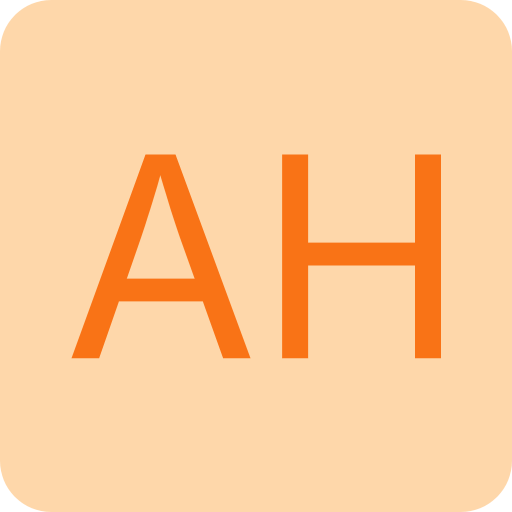
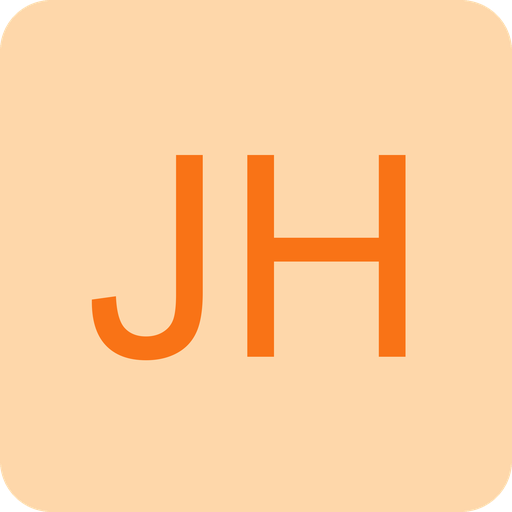
feat: rebrand Alex -> Jay and prep for jayhoward.dev
- Replace "Alex" with "Jay" in site copy, page titles, alt text, blog
  author line, and testimonial forms; navbar initials A.H -> J.H
- Regenerate favicons and app icons with JH initials (same style)
- Update job title to Lead Software Engineer on Home and About
- Contact email -> me@jayhoward.dev; fill in site.webmanifest name
- Backend CORS_ORIGIN now accepts a comma-separated allowlist so both
  jayhoward.dev and alexhoward.dev work during the domain transition
- Remove frontend/public/CNAME (GitHub Pages leftover; site is served
  by Cloudflare Pages)

Changed region(s): [[0.125, 0.2812, 0.875, 0.7188]]

diff --git a/frontend/src/components/about/TestimonialSubmitPage.tsx b/frontend/src/components/about/TestimonialSubmitPage.tsx
@@ -115,11 +115,11 @@ export const TestimonialSubmitPage = () => {
 						Hi!
 					</h2>
 					<p className="lead mb-4" style={{ fontSize: "1.2rem" }}>
-						Alex likes you enough that he wants to hear your thoughts about working with him. Please fill out the form to leave
+						Jay likes you enough that he wants to hear your thoughts about working with him. Please fill out the form to leave
 						your testimonial.
 					</p>
 					<ul className="list-unstyled text-muted small" style={{ fontSize: "1rem" }}>
-						<li>• Your testimonial may be featured on Alex&apos;s site.</li>
+						<li>• Your testimonial may be featured on Jay&apos;s site.</li>
 						<li>• Only your name, title, and company will be shown publicly.</li>
 						<li>• Thank you for your time!</li>
 					</ul>
@@ -151,7 +151,7 @@ export const TestimonialSubmitPage = () => {
 								<input type="text" className="form-control" name="company" value={form.company} onInput={handleChange} />
 							</div>
 							<div className="mb-3">
-								<label className="form-label">How do you know Alex? *</label>
+								<label className="form-label">How do you know Jay? *</label>
 								<input
 									type="text"
 									className="form-control"

diff --git a/backend/src/middleware/auth.ts b/backend/src/middleware/auth.ts
@@ -62,9 +62,15 @@ export const requireAuth = async (request: Request) => {
 // CORS headers helper
 export const getCorsHeaders = (env: Env, request?: Request) => {
 	const origin = request?.headers.get('Origin');
-	const allowedOrigin = origin && (origin.includes('localhost') || origin.includes('127.0.0.1'))
+	// CORS_ORIGIN may be a comma-separated list of allowed origins
+	const allowedOrigins = (env.CORS_ORIGIN || 'http://localhost:5173')
+		.split(',')
+		.map((o) => o.trim())
+		.filter(Boolean);
+	const isLocal = origin && (origin.includes('localhost') || origin.includes('127.0.0.1'));
+	const allowedOrigin = origin && (isLocal || allowedOrigins.includes(origin))
 		? origin
-		: (env.CORS_ORIGIN || 'http://localhost:5173');
+		: allowedOrigins[0];
 
 	return {
 		'Content-Type': 'application/json',

diff --git a/frontend/src/components/Home.tsx b/frontend/src/components/Home.tsx
@@ -8,8 +8,8 @@ export const Home = () => {
 				<div className="row justify-content-center">
 					<div className="col-lg-8">
 						<Hero />
-						<h1 className="display-2 fw-bold mb-3">Hey, I&apos;m Alex.</h1>
-						<p className="display-5 lead text-primary mb-4">Full Stack Software Engineer II</p>
+						<h1 className="display-2 fw-bold mb-3">Hey, I&apos;m Jay.</h1>
+						<p className="display-5 lead text-primary mb-4">Lead Software Engineer</p>
 						<h2 className="text-muted">Front End Subject Matter Expert</h2>
 						<p className="fs-3 text-muted">
 							I&apos;m the engineer who makes sure the front end is beautiful and the backend fuels it.

diff --git a/backend/src/schema.ts b/backend/src/schema.ts
@@ -72,7 +72,7 @@ export const testimonials = sqliteTable('Testimonials', {
 	clientCompany: text('client_company'),
 	content: text('content').notNull(),
 	rating: integer('rating'), // 1-5 stars
-	relationship: text('relationship').notNull(), // How you know Alex
+	relationship: text('relationship').notNull(), // How you know Jay
 	status: text('status').notNull().default('needs_review'), // 'needs_review', 'approved', 'denied'
 	createdAt: text('created_at').default(sql`CURRENT_TIMESTAMP`),
 });

diff --git a/frontend/src/components/about/AboutStatic.tsx b/frontend/src/components/about/AboutStatic.tsx
@@ -3,7 +3,7 @@ export const AboutStatic = () => {
 		<div className="about-content">
 			<h2 className="display-4 fw-bold mb-4">About Me</h2>
 			<p className="fs-5 text-muted">
-				By title, I&apos;m a <strong>Full Stack Software Engineer II - Front End Subject Matter Expert</strong>
+				By title, I&apos;m a <strong>Lead Software Engineer - Front End Subject Matter Expert</strong>
 				&nbsp;at&nbsp;
 				<a href="https://compyl.com/" target="_blank" rel="noopener noreferrer">
 					Compyl

diff --git a/frontend/src/components/BlogPostPage.tsx b/frontend/src/components/BlogPostPage.tsx
@@ -90,7 +90,7 @@ const BlogPostPage = (props: { slug?: string }) => {
 									</div>
 									<h1 className="display-4 fw-bold mb-3">{post.title}</h1>
 									<div className="d-flex align-items-center gap-3 text-secondary">
-										<span className="fw-medium">Author: Alex Howard</span>
+										<span className="fw-medium">Author: Jay Howard</span>
 										<span>•</span>
 										<span>{post.publishedAt ? format(new Date(post.publishedAt), "PPP") : ""}</span>
 									</div>

diff --git a/frontend/index.html b/frontend/index.html
@@ -8,7 +8,7 @@
   <link rel="icon" type="image/png" sizes="16x16" href="/favicon-16x16.png">
   <link rel="manifest" href="/site.webmanifest">
   <meta name="viewport" content="width=device-width, initial-scale=1.0" />
-  <title>Alex Howard | Portfolio</title>
+  <title>Jay Howard | Portfolio</title>
   <link rel="preconnect" href="https://fonts.googleapis.com">
   <link rel="preconnect" href="https://fonts.gstatic.com" crossorigin>
   <link

diff --git a/frontend/src/components/admin/forms/TestimonialForm.tsx b/frontend/src/components/admin/forms/TestimonialForm.tsx
@@ -53,7 +53,7 @@ export const TestimonialForm = ({ formData, setFormData, onSubmit, onCancel, edi
 					className="form-control"
 					value={formData.relationship}
 					onChange={e => setFormData({ ...formData, relationship: (e.target as HTMLInputElement).value })}
-					placeholder="How do you know Alex?"
+					placeholder="How do you know Jay?"
 				/>
 			</div>
 			<div className="d-flex gap-2">

diff --git a/frontend/src/components/Hero.tsx b/frontend/src/components/Hero.tsx
@@ -6,7 +6,7 @@ export const Hero = () => (
 			<div className="hero-portrait-ring ring4"></div>
 			<div className="hero-portrait-ring ring5"></div>
 			<div className="hero-portrait-ring ring6"></div>
-			<img src="/portrait.jpg" alt="Hand-drawn portrait of Alex" loading="lazy" />
+			<img src="/portrait.jpg" alt="Hand-drawn portrait of Jay" loading="lazy" />
 		</div>
 	</section>
 );

diff --git a/frontend/src/components/shared/nav/Navbar.tsx b/frontend/src/components/shared/nav/Navbar.tsx
@@ -8,7 +8,7 @@ const leftNavItems: NavItem[] = [
 	{ id: "about", label: "About" },
 	{ id: "projects", label: "Projects" },
 ];
-const centerNavItem: NavItem = { id: "name", label: "A.H" };
+const centerNavItem: NavItem = { id: "name", label: "J.H" };
 const rightNavItems: NavItem[] = [
 	{ id: "pet-dex", label: "Pet-Dex" },
 	{ id: "blogs", label: "Blogs" },

diff --git a/frontend/src/components/shared/ContactInfo.tsx b/frontend/src/components/shared/ContactInfo.tsx
@@ -23,7 +23,7 @@ export const ContactInfo = () => {
 				>
 					<LuLinkedin />
 				</a>
-				<a href="mailto:me@alexhoward.dev" aria-label="Email" className="text-primary">
+				<a href="mailto:me@jayhoward.dev" aria-label="Email" className="text-primary">
 					<FaRegEnvelope />
 				</a>
 			</div>

diff --git a/frontend/src/utils/title.ts b/frontend/src/utils/title.ts
@@ -1,4 +1,4 @@
-const BASE_TITLE = "Alex Howard | Portfolio";
+const BASE_TITLE = "Jay Howard | Portfolio";
 
 export const updatePageTitle = (section?: string, blogTitle?: string) => {
 	if (blogTitle) {
